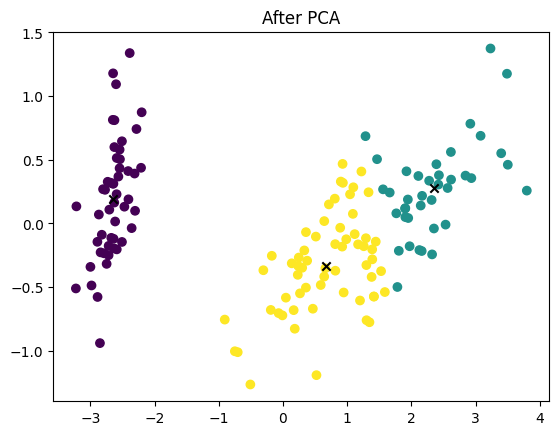
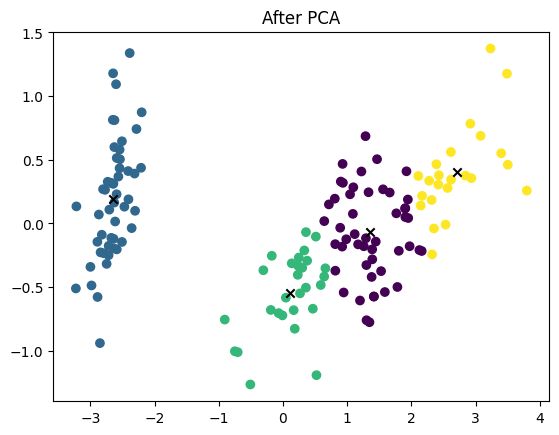
Assignment3.3

diff --git a/week-03/Assignment3.3/KMean_Cluster.py b/week-03/Assignment3.3/KMean_Cluster.py
@@ -1,32 +1,76 @@
-
+# %%
 import matplotlib.pyplot as plt
 import numpy as np
 from sklearn import datasets
 from sklearn.cluster import KMeans
 from sklearn.decomposition import PCA
+import warnings
+warnings.filterwarnings('ignore')
+  
 
-
+# %%
 # Load Data
 iris = datasets.load_iris()
 x = iris.data
 y = iris.target
 
-def generate_plot(all_predictions, centroids, title="Before PCA"): 
+# %%
+def elbow_method():
+    k_values = []
+    intertia_scores = []
+    # finding K
+    for k in range(2, 10):
+        model = KMeans(n_clusters=k)
+        model.fit(x)
+        intertia_scores.append(model.inertia_)
+        k_values.append(k)
+    module_of_second_derivative = np.abs(np.diff(np.diff(intertia_scores)))
+
+    # plot the intertia scores and second derivative
+    fig, ax = plt.subplots()
+    ax.plot(k_values, intertia_scores, marker="o", label="Intertia Score")
+    ax.plot(k_values[2:], module_of_second_derivative, marker="o", label="Second Derivative")
+    ax.set_xlabel("Number of Clusters (k)")
+    ax.set_ylabel("Interia Scores")
+    ax.set_title("Elbow Method")
+    ax.legend()
+    return plt.show()
+elbow_method()
+
+# %% [markdown]
+# ### K = 4 or 5 looks good as intertia from these points getting decreasing, We are using K=4
+# 
+
+# %%
+# Finding Number of Components
+def cumsum():
+    pca = PCA().fit(x)
+    plt.plot(np.cumsum(pca.explained_variance_ratio_))
+    plt.xlabel("number of components")
+    plt.ylabel("cumulative explained variance")
+    return plt.show()
+cumsum()
+
+# %% [markdown]
+# ### We can see that more than 99% of the variance is contained in the first 2 components.
+# 
+
+# %%
+def generate_plot(all_predictions, centroids, title="Before PCA"):
     # plot the data points colored by their cluster assignments
-    plt.scatter(x[:,0], x[:,1], c=all_predictions) 
+    plt.scatter(x[:, 0], x[:, 1], c=all_predictions)
     # plot the cluster centroids
-    plt.scatter(centroids[:,0], centroids[:,1], marker='x', color="black")
+    plt.scatter(centroids[:, 0], centroids[:, 1], marker="x", color="black")
     plt.title(title)
-    return plt.show()   
+    return plt.show()
 
 def kmeans_clustering(x):
     # create a KMeans model with 3 clusters and fit it to the data
-    model = KMeans(n_clusters=3, n_init=1, max_iter=100)
+    model = KMeans(n_clusters=4, n_init=1, max_iter=100)
     model.fit(x)
     all_predictions = model.predict(x)
     centroids = model.cluster_centers_
     return all_predictions, centroids
-
 
 def kmeans_clustering_after_pca(x):
     # apply PCA to reduce the data to 2 dimensions
@@ -36,16 +80,28 @@ def kmeans_clustering_after_pca(x):
     all_predictions, centroids = kmeans_clustering(x_reduced)
     return all_predictions, centroids, x_reduced
 
+
 # plot the data before applying PCA
-all_predictions, centroids =  kmeans_clustering(x)
-generate_plot(all_predictions, centroids)
+all_predictions_without_pca, centroids_without_pca = kmeans_clustering(x)
+generate_plot(all_predictions_without_pca, centroids_without_pca)
 
 # plot the data after applying PCA
-all_predictions, centroids, x = kmeans_clustering_after_pca(x)
-generate_plot(all_predictions, centroids, title="After PCA")
+all_predictions_with_pca, centroids_with_pca, x = kmeans_clustering_after_pca(x)
+generate_plot(all_predictions_with_pca, centroids_with_pca, title="After PCA")
 
+# %% [markdown]
+# ## Before PCA Observations
+#     1. The Data is spreaded (Not clear clusters)
+#     2. One of the 4 cluster is quite clear, but not other 3
+#     3. 
+#     
+# ##  After PCA Observations
+#     1. The Data is clusterd in good form
+#     2. all centroid mostly cover their points
+#     3. More clear Cluster after applying PCA
+# 
 
-
-
+# %% [markdown]
+# 
 
 
